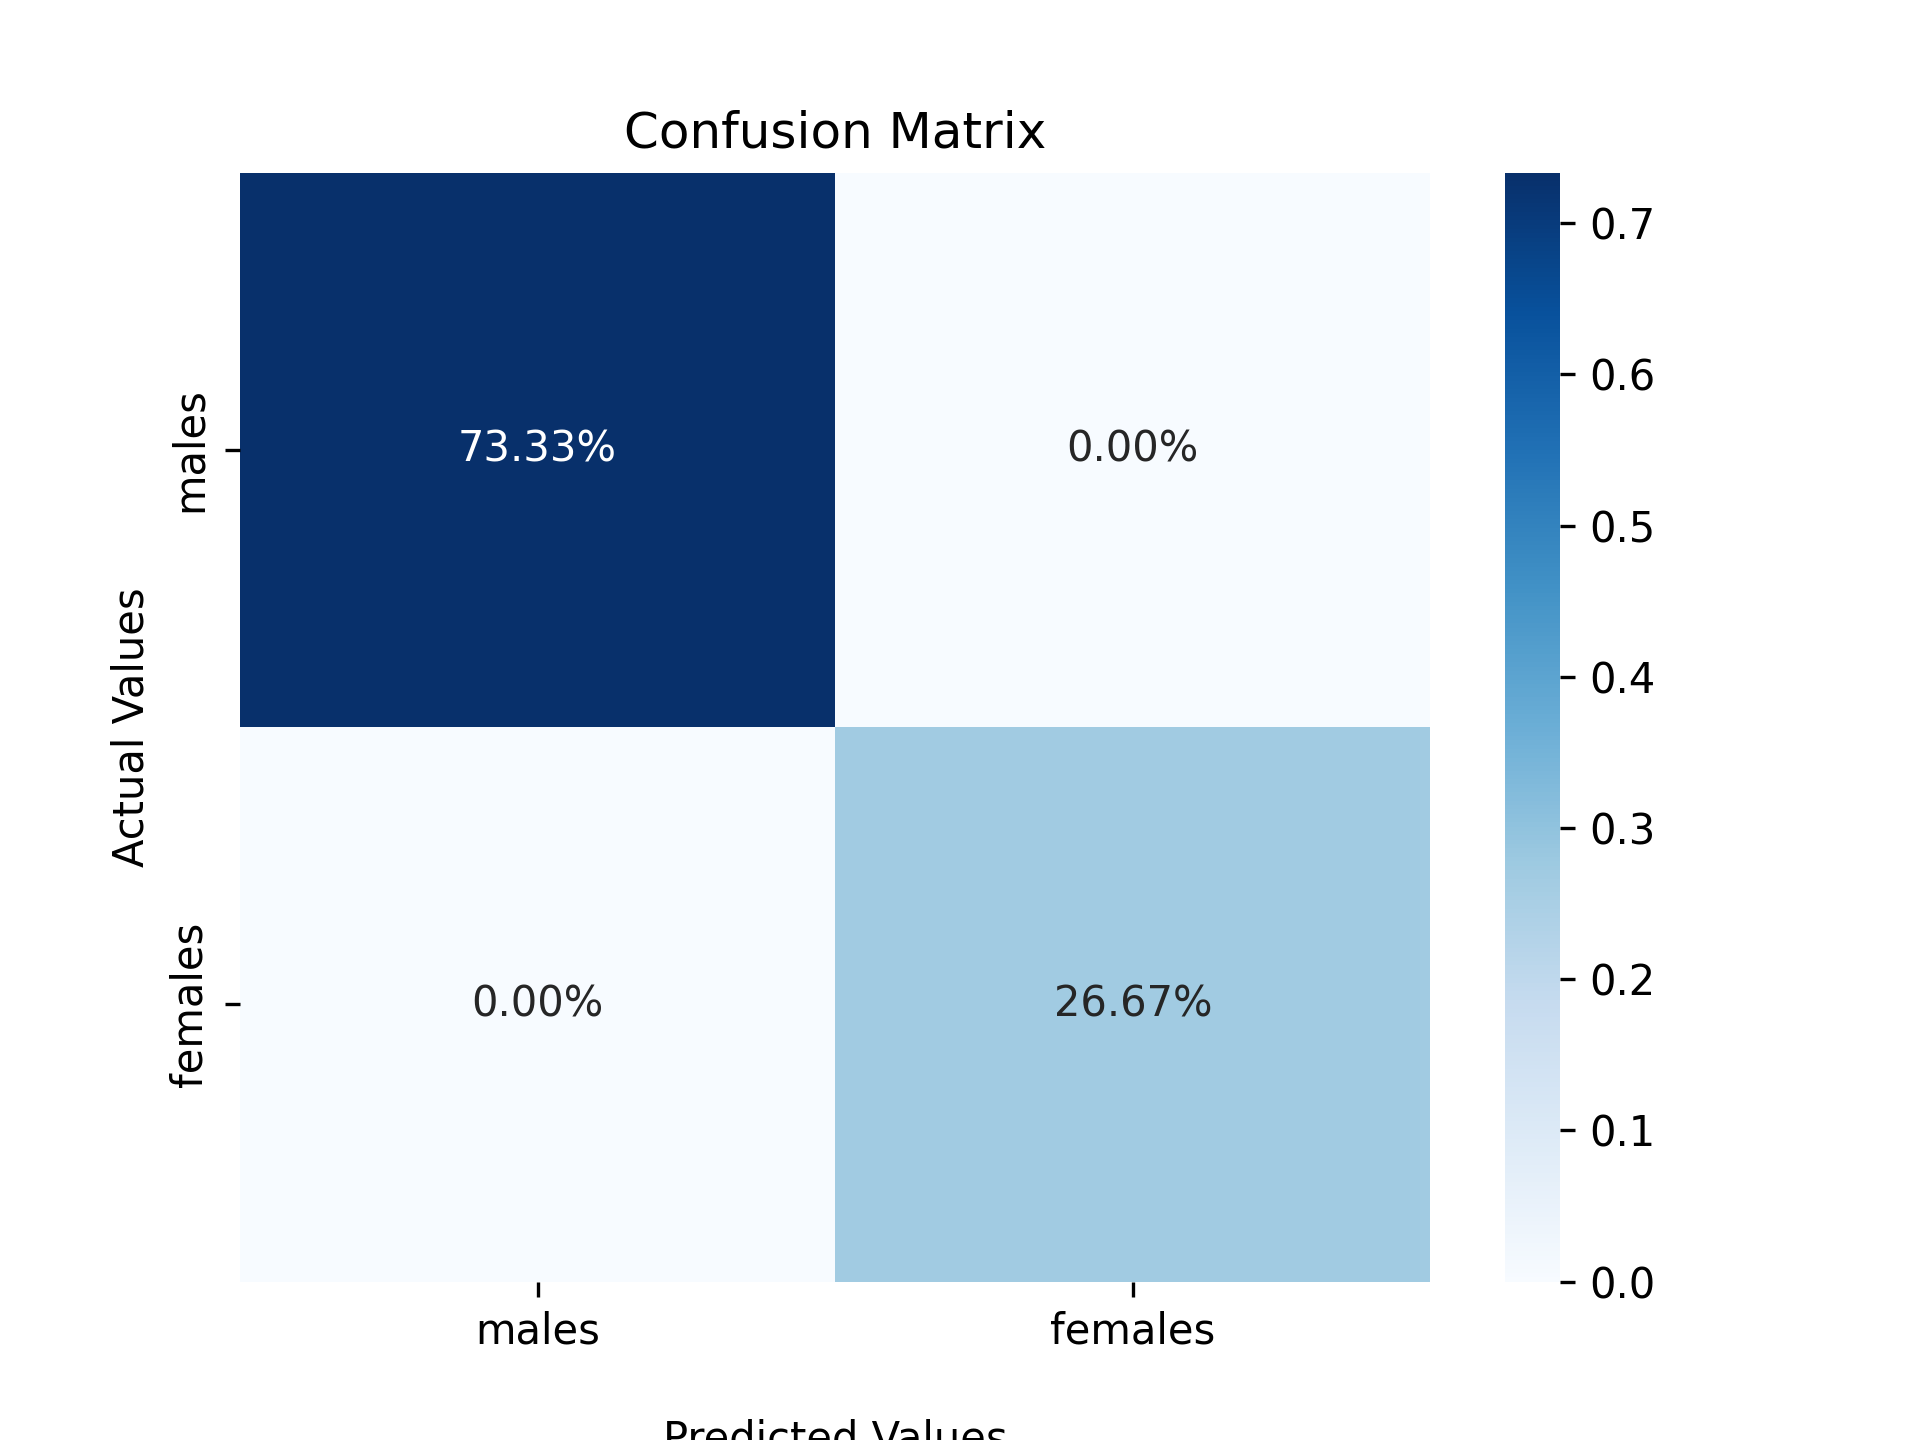
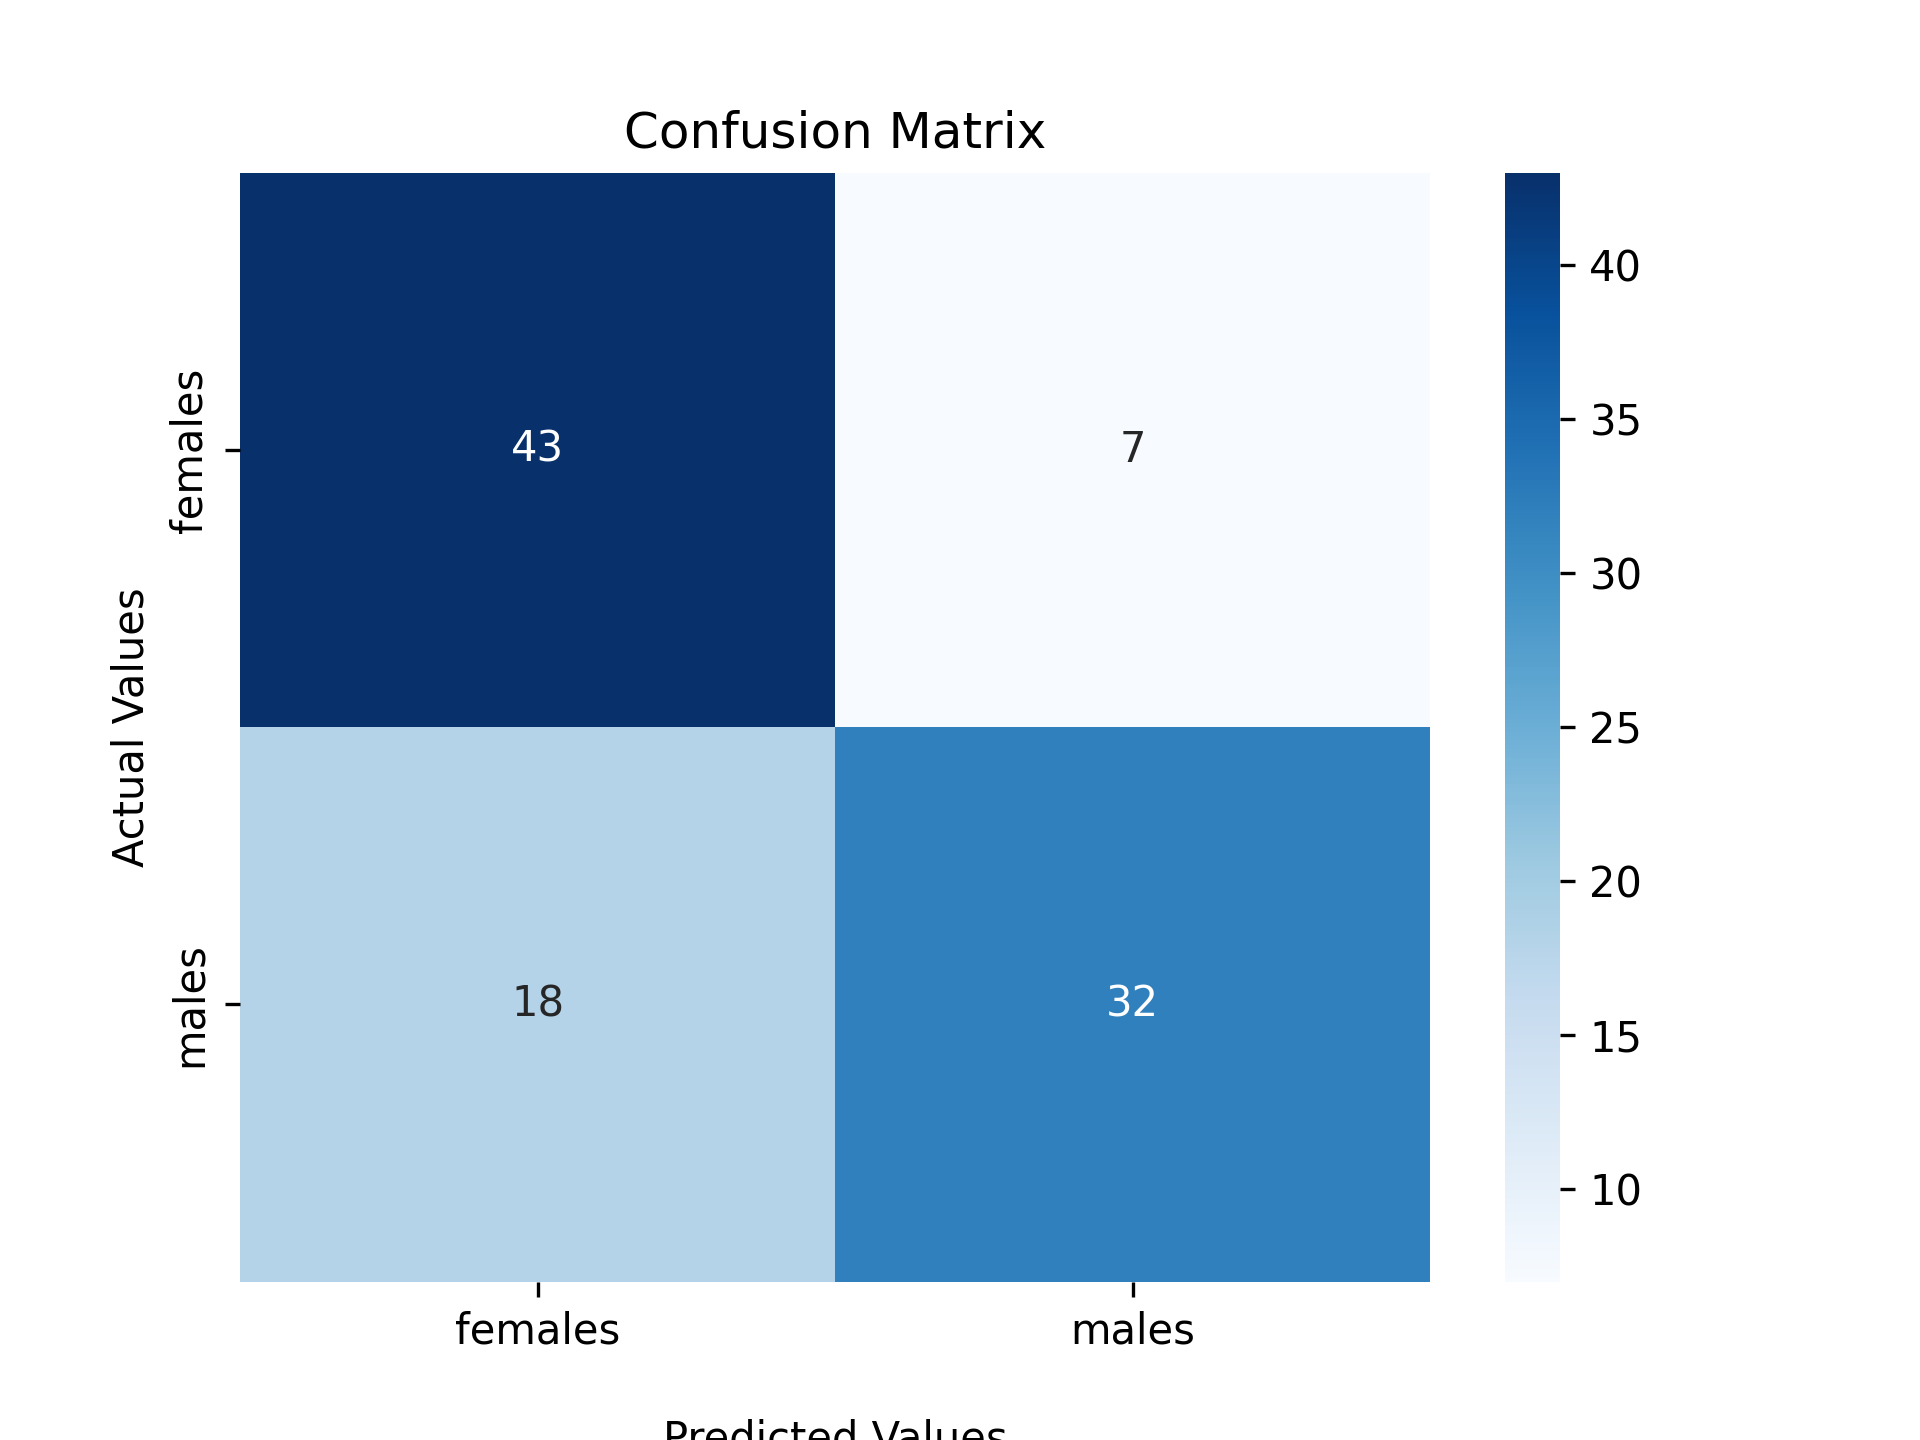
better results

diff --git a/main.py b/main.py
@@ -119,8 +119,6 @@ def testModel(trainedModels, source, labels):
             # genders[winner].split('/')[2]
             winners.append(genders[winner].split('/')[2])
             print("Ganador: ", genders[winner].split('/')[2], "Mujeres: ", likeLihood[0], "Hombres: ", likeLihood[1], "\n")
-    # TODO ADD A LIST FOR TESTING MALES AND FEMALES INTO ONE LIST FOR TARGETS AND
-    #  ANOTHER LIST FOR THE WINNERS (PREDICTED)
     targets = ['males'] * n[0]
     targets.extend(['females'] * n[1])
     drawConfusionMatrix(targets, winners)
@@ -132,13 +130,14 @@ def drawConfusionMatrix(test, prediction):
     print("prediction", len(prediction))
     print(prediction)
     confusion = confusion_matrix(test, prediction)
-    # print("confusion")
-    ax = sns.heatmap(confusion / np.sum(confusion), annot=True, fmt='.2%', cmap='Blues')
+    print("confusion")
+    print(confusion)
+    ax = sns.heatmap(confusion, annot=True, cmap='Blues')
     ax.set_title('Confusion Matrix')
     ax.set_xlabel('\nPredicted Values')
     ax.set_ylabel('Actual Values')
-    ax.xaxis.set_ticklabels(['males', 'females'])
-    ax.yaxis.set_ticklabels(['males', 'females'])
+    ax.xaxis.set_ticklabels(['females', 'males'])
+    ax.yaxis.set_ticklabels(['females', 'males'])
     ax.figure.savefig("data/saves/confusionMatrix.png", dpi=300)
     plt.show()
 
